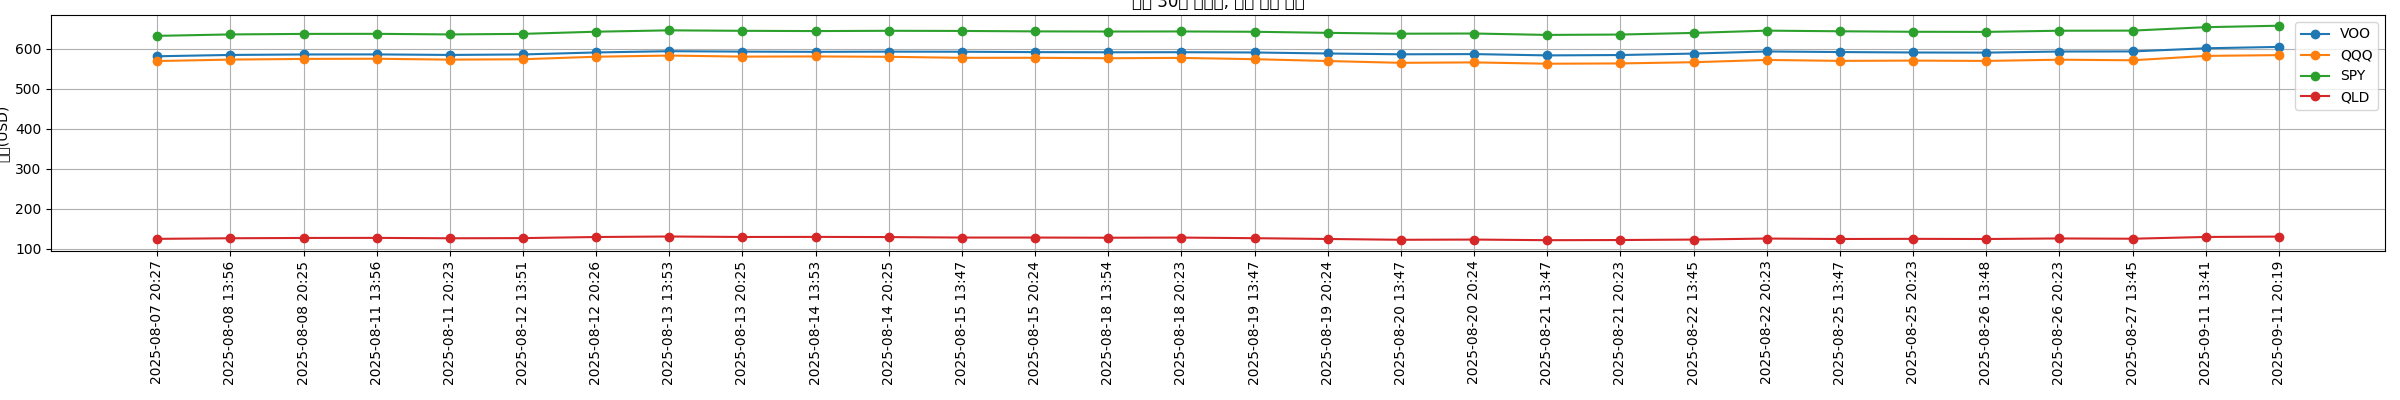
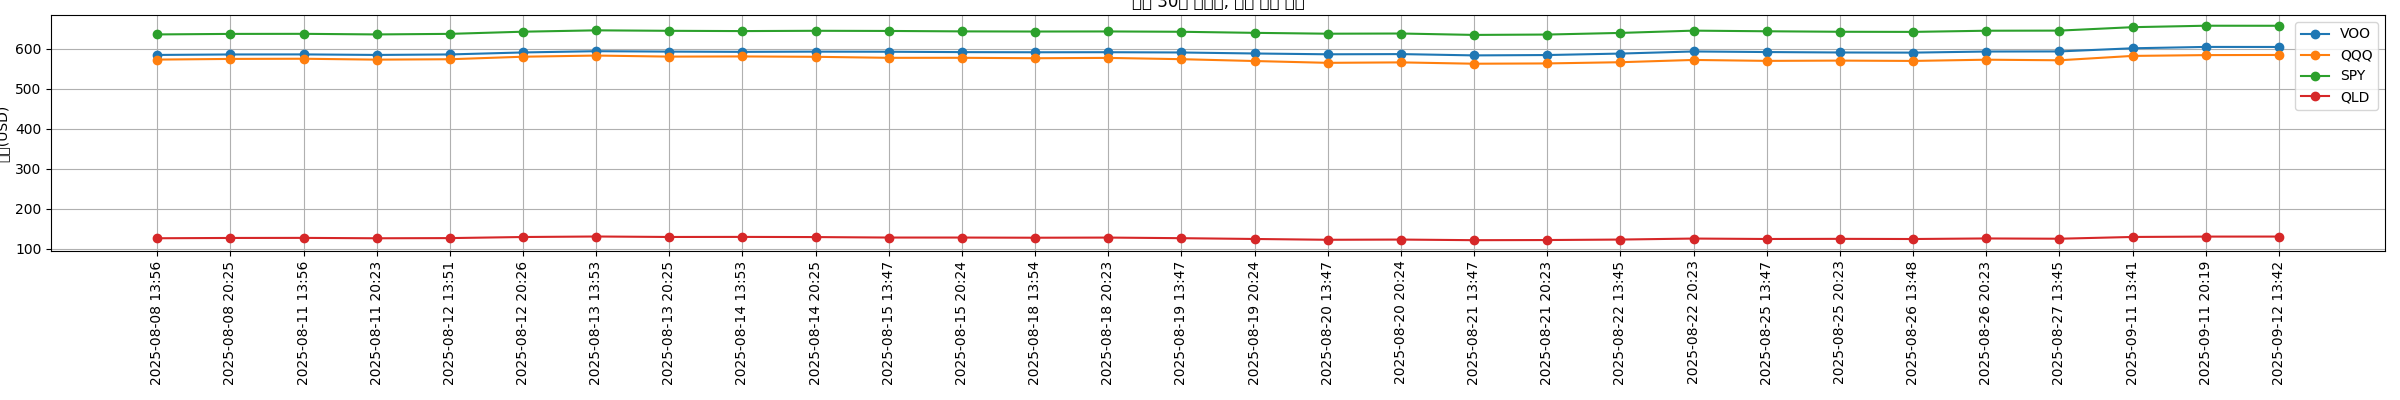
자동: 시장 시세/차트, README 갱신

diff --git a/README.md b/README.md
@@ -4,7 +4,6 @@
 
 | 시각(UTC) | VOO | QQQ | SPY | QLD |
 | --- | --- | --- | --- | --- |
-| 2025-08-07 20:27 | 581.18 | 569.24 | 632.25 | 124.37 |
 | 2025-08-08 13:56 | 584.51 | 572.87 | 635.84 | 125.89 |
 | 2025-08-08 20:25 | 585.72 | 574.55 | 637.13 | 126.62 |
 | 2025-08-11 13:56 | 585.87 | 575.01 | 637.32 | 126.81 |
@@ -34,5 +33,6 @@
 | 2025-08-27 13:45 | 593.30 | 571.16 | 645.38 | 124.70 |
 | 2025-09-11 13:41 | 601.16 | 582.09 | 653.97 | 129.12 |
 | 2025-09-11 20:19 | 604.58 | 584.09 | 657.61 | 130.03 |
+| 2025-09-12 13:42 | 604.48 | 584.45 | 657.49 | 130.12 |
 ## QLD CANDLESTICK CHART![QLD 캔들차트](./qld_candlestick.png)
 
